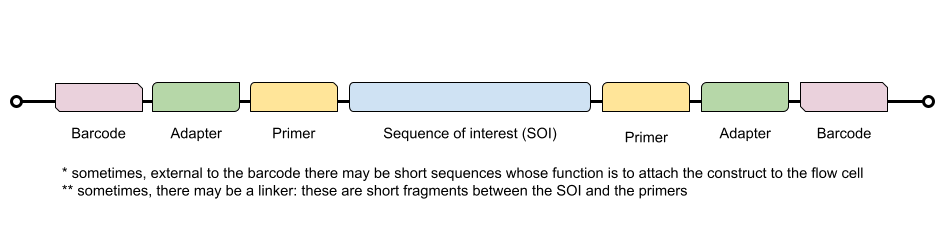
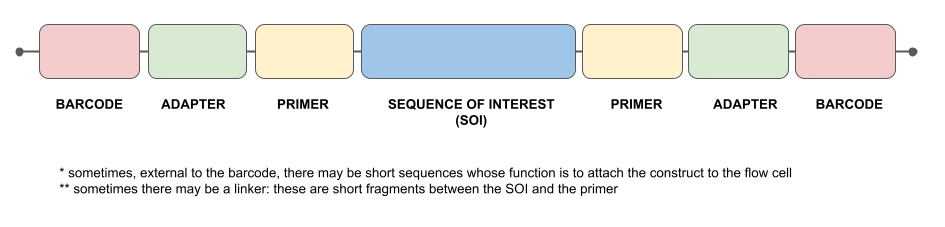
updating image and category labels

diff --git a/_posts/2022-06-11-quick-ampliseq.md b/_posts/2022-06-11-quick-ampliseq.md
@@ -2,7 +2,7 @@
 layout: post
 title:  "Amplicon sequencing: a quick look at the construct"
 date:   2022-06-11 10:00:01 +0100
-categories: bioinformatics, microbiome
+categories: BIOINFORMATICS, MICROBIOME
 ---
 
 In short, **amplicon sequencing** refers to the technology that amplifies (makes several copies of) 
